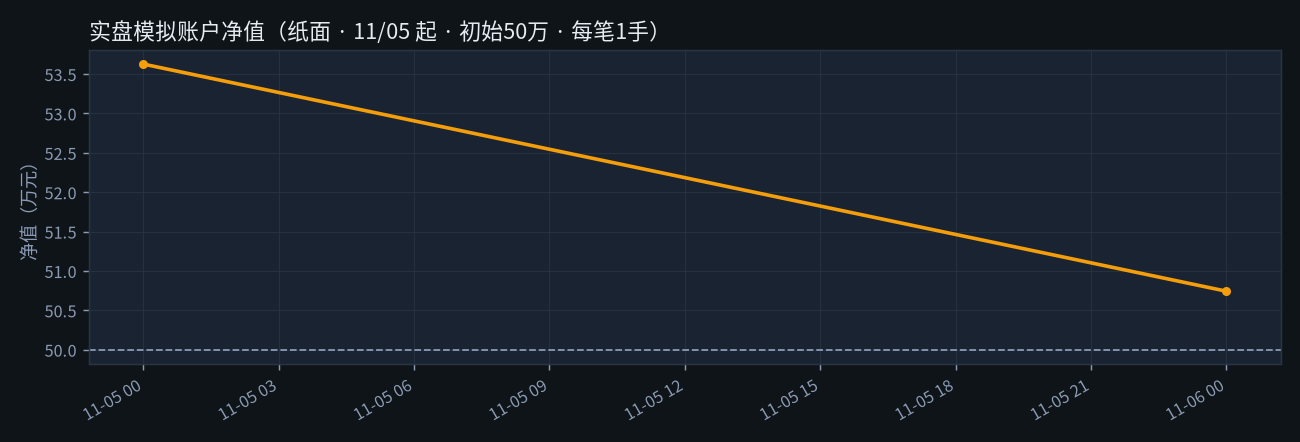
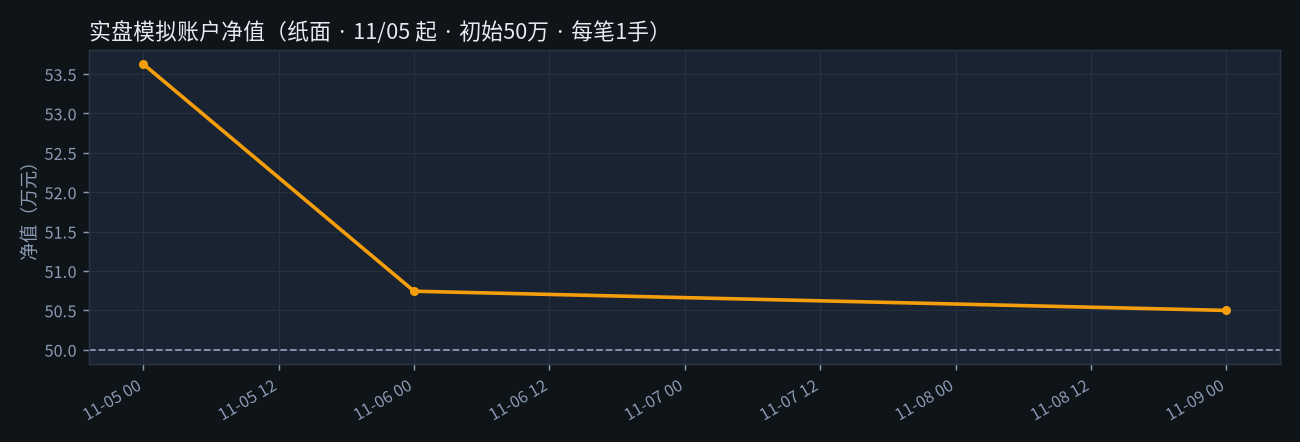
daily: 2026-11-09

diff --git a/reports/2026-11-09.html b/reports/2026-11-09.html
@@ -1,0 +1,181 @@
+<!doctype html>
+<html lang="zh-CN"><head><meta charset="utf-8"><meta name="viewport" content="width=device-width,initial-scale=1">
+<title>2026-11-09 · 股指期货量化系统每日复盘</title>
+<style>:root{
+  --bg:#0f1419;--card:#1a2332;--border:#2a3544;--text:#e7ecf3;--muted:#8b9bb4;
+  --accent:#3b82f6;--ok:#22c55e;--ok-bg:#12261c;--ok-bd:#1e4d36;
+  --watch:#f59e0b;--watch-bg:#2a2110;--watch-bd:#5c4518;
+  --danger:#ef4444;--table-head:#151c27;
+}
+*{box-sizing:border-box}
+body{
+  margin:0;font-family:-apple-system,BlinkMacSystemFont,"Segoe UI","PingFang SC","Hiragino Sans GB","Microsoft YaHei",sans-serif;
+  background:var(--bg);color:var(--text);line-height:1.65;font-size:15.5px;
+}
+.wrap{max-width:820px;margin:0 auto;padding:24px 16px 56px}
+a{color:var(--accent)}
+.topnav{margin-bottom:18px;font-size:.9rem}
+.topnav a{text-decoration:none}
+header h1{font-size:1.45rem;margin:0 0 6px;font-weight:700}
+header .sub{color:var(--muted);margin:0 0 14px;font-size:.92rem}
+.badge{
+  display:inline-block;padding:3px 10px;border-radius:999px;font-size:.78rem;font-weight:650;
+  background:#1e3a5f;color:#93c5fd;margin-right:6px;
+}
+.disclaimer{
+  padding:12px 14px;border:1px solid var(--border);border-radius:10px;
+  background:#151c27;color:var(--muted);font-size:.88rem;margin-bottom:28px;
+}
+h2{
+  font-size:1.12rem;margin:32px 0 12px;padding-bottom:8px;
+  border-bottom:1px solid var(--border);font-weight:700;
+}
+h3{font-size:1rem;margin:20px 0 10px;font-weight:650}
+p,li{color:var(--text)}
+.muted{color:var(--muted)}
+.lead{font-size:.98rem;margin:0 0 16px}
+table{
+  width:100%;border-collapse:collapse;font-size:.9rem;margin:10px 0 16px;
+  background:var(--card);border-radius:10px;overflow:hidden;border:1px solid var(--border);
+}
+th,td{padding:10px 12px;text-align:left;border-bottom:1px solid var(--border);vertical-align:top}
+th{background:var(--table-head);color:var(--muted);font-weight:600;white-space:nowrap}
+tr:last-child td{border-bottom:none}
+td.num,th.num{text-align:right;font-variant-numeric:tabular-nums}
+.chart{
+  display:block;width:100%;max-width:100%;height:auto;border-radius:12px;
+  border:1px solid var(--border);margin:12px 0 8px;background:#111;
+}
+.cap{font-size:.8rem;color:var(--muted);margin:0 0 18px}
+.grid{display:grid;gap:14px}
+@media(min-width:640px){.grid-2{grid-template-columns:1fr 1fr}}
+.cmd{
+  border-radius:14px;padding:16px 16px 14px;border:1px solid var(--border);
+  background:var(--card);margin-bottom:14px;
+}
+.cmd.open{border-color:var(--ok-bd);background:linear-gradient(180deg,var(--ok-bg),var(--card))}
+.cmd.watch{border-color:var(--watch-bd);background:linear-gradient(180deg,var(--watch-bg),var(--card))}
+.cmd .head{display:flex;flex-wrap:wrap;align-items:center;gap:8px;margin-bottom:10px}
+.cmd .name{font-size:1.05rem;font-weight:700;margin:0}
+.pill{
+  font-size:.72rem;font-weight:700;padding:3px 8px;border-radius:999px;letter-spacing:.02em;
+}
+.pill.open{background:#14532d;color:#86efac}
+.pill.watch{background:#78350f;color:#fcd34d}
+.pill.alt{background:#1e3a5f;color:#93c5fd}
+.kv{width:100%;border:none;background:transparent;margin:0}
+.kv th,.kv td{border:none;border-bottom:1px dashed #2a3544;padding:8px 0;background:transparent}
+.kv th{width:5.5em;color:var(--muted);font-weight:600}
+.kv tr:last-child th,.kv tr:last-child td{border-bottom:none}
+.rules{
+  padding:14px 16px;border-radius:12px;border:1px solid var(--border);
+  background:var(--card);margin:10px 0;
+}
+.rules ul{margin:8px 0 0;padding-left:1.2em}
+.rules li{margin:6px 0}
+.evidence{
+  padding:14px 16px;border-radius:12px;border:1px solid #1e3a5f;
+  background:#121a28;margin:12px 0 18px;
+}
+.evidence h3{margin-top:0}
+footer{margin-top:36px;padding-top:14px;border-top:1px solid var(--border);color:var(--muted);font-size:.8rem}
+.strong{font-weight:650;color:#fff}
+.list{display:flex;flex-direction:column;gap:12px}
+.card{display:block;padding:16px 18px;border:1px solid var(--border);border-radius:12px;background:var(--card);text-decoration:none;color:inherit}
+.card:hover{border-color:var(--accent)}
+.card .date{font-size:.82rem;color:var(--accent);font-weight:600;margin-bottom:4px}
+.card .title{font-size:1.05rem;font-weight:650;margin:0 0 6px;border:none;padding:0}
+.card .meta{font-size:.88rem;color:var(--muted);margin:0}
+.tag{display:inline-block;font-size:.72rem;padding:2px 8px;border-radius:999px;background:#1e3a2f;color:#86efac;margin-left:8px}
+table{display:table}
+@media(max-width:600px){table{font-size:.82rem}th,td{padding:8px 6px}}
+</style></head><body><div class="wrap">
+<div class="topnav"><a href="../index.html">← 复盘首页</a></div>
+<header><h1>股指期货量化系统 · 每日复盘</h1>
+<p class="sub">交易日 <strong>2026-11-09（周一）</strong> · 下一交易日 <strong>2026-11-10（周二）</strong></p>
+<span class="badge">主策略 PF-K（IM）</span><span class="badge">纸面模拟账户运行中</span></header>
+<div class="disclaimer"><strong>免责声明</strong>：独立量化系统的研究复盘，仅供参考学习，不构成投资建议，不代下单。期货有杠杆，可能亏损超过预期，行动与盈亏由你本人承担。</div>
+
+<div class="cmd watch"><div class="head"><span class="pill watch">明日指令</span><h3 class="name">明天（2026-11-10（周二））不动，空仓观望</h3></div>
+<table class="kv"><tbody><tr><th>原因</th><td>今天的 zSAS = -0.40，没到 ±1.25 的触发线</td></tr></tbody></table></div>
+
+<h2>一、今天发生了什么</h2>
+<p class="lead">IM（中证1000股指期货主连）今天开 6536.0、最高 6585.0、最低 6440.8、收 <strong>6448.6</strong>，
+比昨天收盘 6460.8 <strong>跌 12.2 点（-0.19%）</strong>。开盘相对昨收 高开 75.2 点，盘中震荡走低，收阴线。</p>
+<div class="rules"><ul><li>今天平掉一笔多单（11-05 开 6423.0 → 今天 6448.6，时间退出），费后 +24.9 点 ≈ +4,981 元/手。</li></ul></div>
+<img class="chart" src="../assets/2026-11-09/im_price_z.png" alt="IM 近100日K线与zSAS">
+<p class="cap">上：IM 近 100 个交易日 K 线和系统历史开平仓点；下：每日 zSAS，越过虚线就出信号。</p>
+
+<h2>二、为什么出这个信号（白话版）</h2>
+<p>今天收盘后算出 <strong>zSAS = -0.40</strong>，在 ±1.25 之间，不触发。</p>
+<div class="rules"><ul>
+<li><b>它在看什么</b>：今天这根K线的涨跌，相对「平时一天能波动多少」（ATR）有多猛；同时扣掉「开盘跳空」那部分——靠隔夜跳空涨上去的不算数，盘中一路买上去的才算。</li>
+<li><b>怎么算</b>：SAS = 0.55 × 今日涨跌幅/ATR比例 − 0.35 × 异常跳空；再和过去 60 天比，变成 zSAS（高出平时几个标准差）。</li>
+<li><b>怎么用</b>：zSAS ≥ +1.25 → 今天涨得「比平常猛得多」且不是靠跳空 → 系统认为短期惯性会延续，次日开盘做多；≤ −1.25 反过来做空；中间不动。</li>
+<li><b>今天</b>：开盘只高开 75.2 点，涨幅主要是盘中走出来的，所以 zSAS 很高。</li>
+</ul></div>
+
+<h2>三、明天具体怎么挂单</h2>
+<p>规则只有一条：<b>次日开盘价成交</b>。所以明早 9:25 集合竞价或 9:30 开盘用市价/对价跟进即可；止损价按你的<b>实际成交价</b>算。</p>
+<p class="muted">明天没有新开仓指令。</p>
+<div class="evidence"><h3>执行提醒（执行建议，未回测）</h3><ul>
+<li>只在开盘这一刻跟；<b>开盘没成交就放弃本笔，不在盘中追高/追低挂天价单</b>。回测只验证过「开盘价成交」。</li>
+<li>止损单可在成交后立刻挂条件单（多单：最新价 ≤ 止损价 触发卖出平仓）。若开盘就跳空越过止损，按开盘价离场（回测同样处理）。</li>
+<li>第3天收盘前没止损，就在尾盘平掉；中间不加仓、不移动止损。</li>
+</ul></div>
+
+<h2>四、实盘模拟账户（11/5起）<span class="sub" style="font-size:.8em;font-weight:400"> · 纸面记账 · 初始50万 · 每笔1手</span></h2>
+<img class="chart" src="../assets/2026-11-09/ledger.png" alt="纸面账户净值曲线">
+<table><tbody>
+<tr><td>当前净值</td><td class="num"><strong>504,981 元</strong></td><td>收益率 <strong>+1.00%</strong> · 最大回撤 -5.83%</td></tr>
+<tr><td>已实现 / 浮动盈亏</td><td class="num">+4,981 / +0 元</td><td>已平仓 1 笔 · 胜率 100% · 已付费用滑点约 139 元</td></tr>
+</tbody></table>
+<table><thead><tr><th>状态</th><th>方向</th><th>开仓日/价</th><th>平仓日/价</th><th class="num">费用滑点(点)</th><th class="num">净盈亏(元)</th><th>说明</th></tr></thead><tbody>
+<tr><td>已平仓</td><td>多</td><td>2026-11-05 / 6423.0</td><td>2026-11-09 / 6448.6</td><td class="num">0.7</td><td class="num">+4,981</td><td>时间退出</td></tr>
+</tbody></table>
+<p class="cap">口径：只跟主策略 PF-K（IM，每笔 1 手）。成交价=日线开盘价/止损价/第3天收盘价；费用=开·平昨万0.23（平今万2.3）+ 往返滑点0.4点；持仓中的浮盈已预扣平仓费用。纸面记账，非真实成交。</p>
+
+<h2>五、历史成绩（样本外，费后）</h2>
+<img class="chart" src="../assets/2026-11-09/oos_equity.png" alt="样本外权益 vs 中证1000">
+<p class="cap">「样本外」= 2025-06-03 之后的数据，参数是在那之前就定死的，这段相当于「模拟实战」。图为 2手/100万 口径累计收益率，对比同期中证1000指数。</p>
+
+<table><thead><tr><th>指标（样本外 2025-06-03 → 2026-11-09，费后）</th><th class="num">回测口径 2手/100万</th><th class="num">重算 1手/50万</th></tr></thead><tbody>
+<tr><td>交易笔数 / 胜率</td><td class="num">45 笔 / 62.2%</td><td class="num">45 笔 / 62.2%</td></tr>
+<tr><td>累计盈利</td><td class="num">+49.0 万元</td><td class="num">+24.5 万元</td></tr>
+<tr><td>策略年化（单利口径）</td><td class="num">+34.1%</td><td class="num">+34.1%</td></tr>
+<tr><td>中证1000 同期年化</td><td class="num">+4.9%</td><td class="num">+4.9%</td></tr>
+<tr><td><strong>超额年化</strong>（策略−指数）</td><td class="num"><strong>+29.2%</strong></td><td class="num">+29.2%</td></tr>
+<tr><td>2025年（6/3起）：策略 / 指数 / 超额</td><td class="num" colspan="2">+33.6% / +25.1% / +8.4%</td></tr>
+<tr><td>2026年至今：策略 / 指数 / 超额</td><td class="num" colspan="2">+15.4% / -16.2% / +31.6%</td></tr>
+</tbody></table>
+<p class="cap">「1手/50万」是把同一批成交按 1 手、50万本金重算：金额减半、收益率相同（因为仓位和本金同比例缩小）。年化=总收益÷年数（单利）。
+数字由冻结参数实时重算。与存档 summary.json（2026-11-04）对照：存档 44 笔 / 胜率 61.4% / 超额年化 28.64%。</p>
+
+<h2>六、风险提示</h2>
+<div class="rules"><ul>
+<li><b>历史 ≠ 未来</b>：样本外只有 45 笔，统计上仍偏薄；任何一段连亏都可能发生。</li>
+<li><b>参数偏脆</b>：持有天数只有 H≈3 天附近站得住，邻域诊断里：持有 2 天时超额年化只剩约 +3%~+4%；持有 4–5 天虽然总数更好看，但 2025 年行情上涨段会明显跑输指数（攻防不再两全）。12 个邻近参数里只有 H=3 的 3 格「攻防两全」——所以严格按 3 天执行，不要自作主张拿更久或更短。</li>
+<li><b>单笔最大亏损</b>：止损 1.5×ATR = 348.8 点 × 200 元/点 ≈ <b>7.0 万元/手</b>（另加费用滑点；跳空越过止损时会更多）。50万账户单笔最坏约 14.0%。</li>
+<li>IM 一手合约价值约 129 万元（价格×200），保证金只占其中一部分，杠杆高，账户资金要留足以免被强平。</li>
+<li>不叠加：持仓期间出现的新信号不接；平仓当天出现的信号也不接（与回测一致）。</li>
+</ul></div>
+
+
+<h2>附：卫星策略 PF-K-IC（中证500股指期货 IC）</h2>
+<div class="rules"><p style="margin:0">同一套指标用在 IC 上，但参数单独冻结：阈值 ±1.5、止损 1.5×ATR、最多拿 5 天。<b>不计入上面的纸面模拟账户</b>，仅供对照。</p>
+<p style="margin:8px 0 0">今日 IC 收 6532.8（-13.0 点）。持多中：2026-11-05 开 6515.0，止损 6196.4，最晚 2026-11-11（周三） 收盘前平。</p>
+<p class="cap" style="margin:8px 0 0">样本外（2手/100万口径）：29 笔，胜率 58.6%，超额年化 vs 中证500 +14.7%。</p></div>
+
+<h2>七、术语小词典</h2>
+<table><tbody>
+<tr><td>ATR</td><td>平均真实波幅（14日），代表「这个品种平时一天大概波动多少点」。今天用于止损的 ATR = 232.5 点。</td></tr>
+<tr><td>zSAS</td><td>系统的核心指标：今天「盘中走出来的涨跌」比过去 60 天平均水平高出几个标准差。±1.25 是开仓线。</td></tr>
+<tr><td>样本外</td><td>定参数时没用过的数据。在样本外还能赚钱，才说明不是「拟合历史」。本系统切点 2025-06-03。</td></tr>
+<tr><td>止损</td><td>预先定好的认错价格，价格碰到就平仓离场，控制单笔最大亏损。</td></tr>
+<tr><td>对价</td><td>买入挂卖一价、卖出挂买一价，保证立刻成交。</td></tr>
+</tbody></table>
+
+<h2>数据与缺口</h2>
+<ul class="muted"><li>今日无数据缺口。</li><li>数据：IM0/IC0 主连日线（v2/*_raw.csv）、中证1000/500 指数日线；参数冻结 PF-K_q1.25_s1.5_RNone_H3 / PF-K-IC_q1.5_s1.5_RNone_H5，未调参。</li></ul>
+<footer>生成：2026-11-09 15:52（北京时间）· 仓库 nandawys/index-quant · 研究参考，不代下单</footer>
+</div></body></html>

diff --git a/index.html b/index.html
@@ -96,15 +96,16 @@ table{display:table}
 <h2>实盘模拟账户（11/5起）<span class="sub" style="font-size:.8em;font-weight:400"> · 纸面记账 · 初始50万 · 每笔1手</span></h2>
 <img class="chart" src="assets/ledger_latest.png" alt="纸面账户净值曲线">
 <table><tbody>
-<tr><td>当前净值</td><td class="num"><strong>507,421 元</strong></td><td>收益率 <strong>+1.48%</strong> · 最大回撤 -5.38%</td></tr>
-<tr><td>已实现 / 浮动盈亏</td><td class="num">+0 / +7,421 元</td><td>已平仓 0 笔 · 胜率 — · 已付费用滑点约 0 元</td></tr>
+<tr><td>当前净值</td><td class="num"><strong>504,981 元</strong></td><td>收益率 <strong>+1.00%</strong> · 最大回撤 -5.83%</td></tr>
+<tr><td>已实现 / 浮动盈亏</td><td class="num">+4,981 / +0 元</td><td>已平仓 1 笔 · 胜率 100% · 已付费用滑点约 139 元</td></tr>
 </tbody></table>
 <table><thead><tr><th>状态</th><th>方向</th><th>开仓日/价</th><th>平仓日/价</th><th class="num">费用滑点(点)</th><th class="num">净盈亏(元)</th><th>说明</th></tr></thead><tbody>
-<tr><td>持仓中</td><td>多</td><td>2026-11-05 / 6423.0</td><td>未平（今收 6460.8，止损 6085.0）</td><td class="num">0.7</td><td class="num">+7,421</td><td>已持2天/最多3天</td></tr>
+<tr><td>已平仓</td><td>多</td><td>2026-11-05 / 6423.0</td><td>2026-11-09 / 6448.6</td><td class="num">0.7</td><td class="num">+4,981</td><td>时间退出</td></tr>
 </tbody></table>
 <p class="cap">口径：只跟主策略 PF-K（IM，每笔 1 手）。成交价=日线开盘价/止损价/第3天收盘价；费用=开·平昨万0.23（平今万2.3）+ 往返滑点0.4点；持仓中的浮盈已预扣平仓费用。纸面记账，非真实成交。</p>
 <h2>每日复盘</h2>
-<nav class="list" aria-label="复盘列表"><a class="card" href="reports/2026-11-06.html"><div class="date">2026-11-06（周五）<span class="tag">最新</span></div><h2 class="title">持多中 · 止损 6085.0</h2><p class="meta">IM 收 6460.8（-144.2）· zSAS -0.04 · 账户净值 50.74 万</p></a>
+<nav class="list" aria-label="复盘列表"><a class="card" href="reports/2026-11-09.html"><div class="date">2026-11-09（周一）<span class="tag">最新</span></div><h2 class="title">明日不动 · 空仓观望</h2><p class="meta">IM 收 6448.6（-12.2）· zSAS -0.40 · 账户净值 50.50 万</p></a>
+<a class="card" href="reports/2026-11-06.html"><div class="date">2026-11-06（周五）</div><h2 class="title">持多中 · 止损 6085.0</h2><p class="meta">IM 收 6460.8（-144.2）· zSAS -0.04 · 账户净值 50.74 万</p></a>
 <a class="card" href="reports/2026-11-05.html"><div class="date">2026-11-05（周四）</div><h2 class="title">持多中 · 止损 6085.0</h2><p class="meta">IM 收 6605.0（+135.8）· zSAS 1.28 · 账户净值 53.63 万</p></a>
 <a class="card" href="reports/2026-11-04.html"><div class="date">2026-11-04（周三）</div><h2 class="title">启动前一日：明日开多1手 IM · 止损=成交价−338.0</h2><p class="meta">IM 收 6469.2（+295.4）· zSAS 2.40 · 账户净值 50.00 万</p></a></nav>
 <footer>数据：IM0/IC0 主连日线、中证指数日线 · 仓库 nandawys/index-quant · 页面每个交易日收盘后更新</footer>
